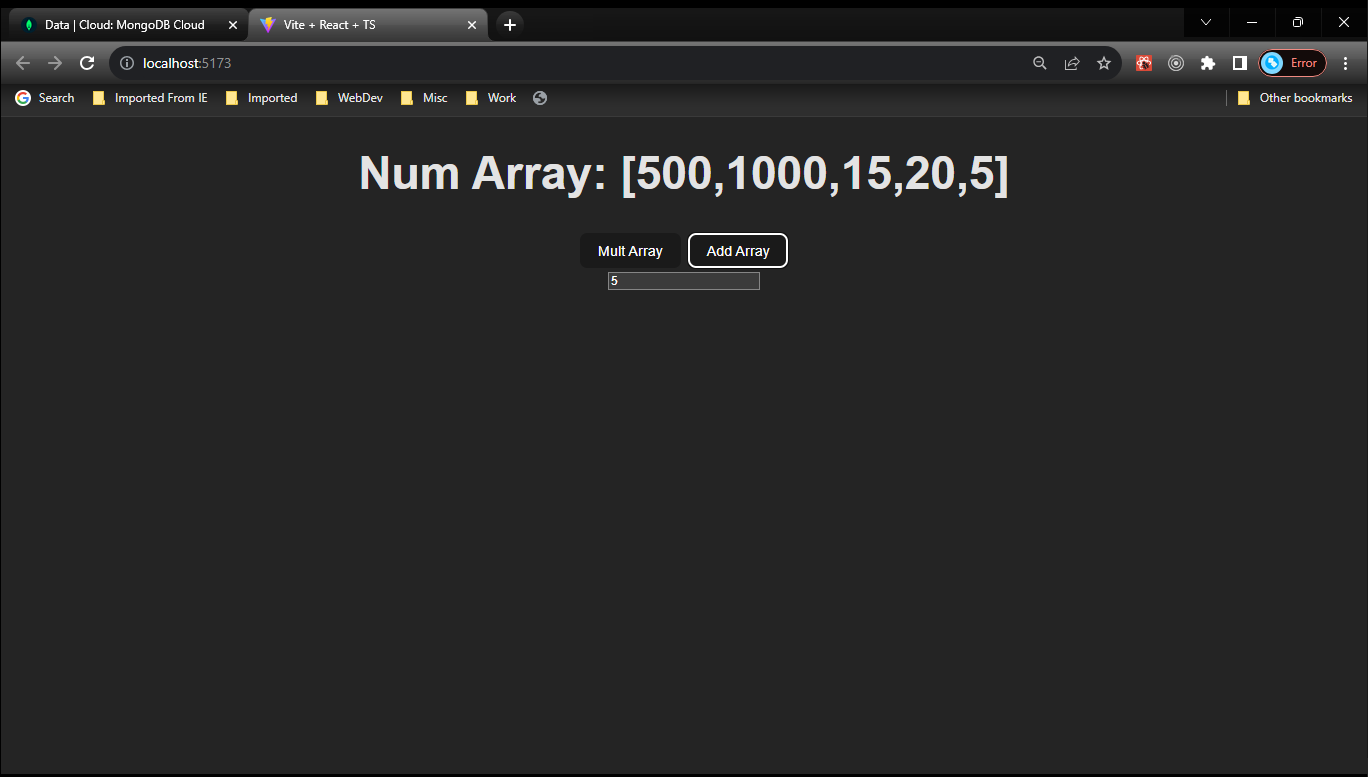
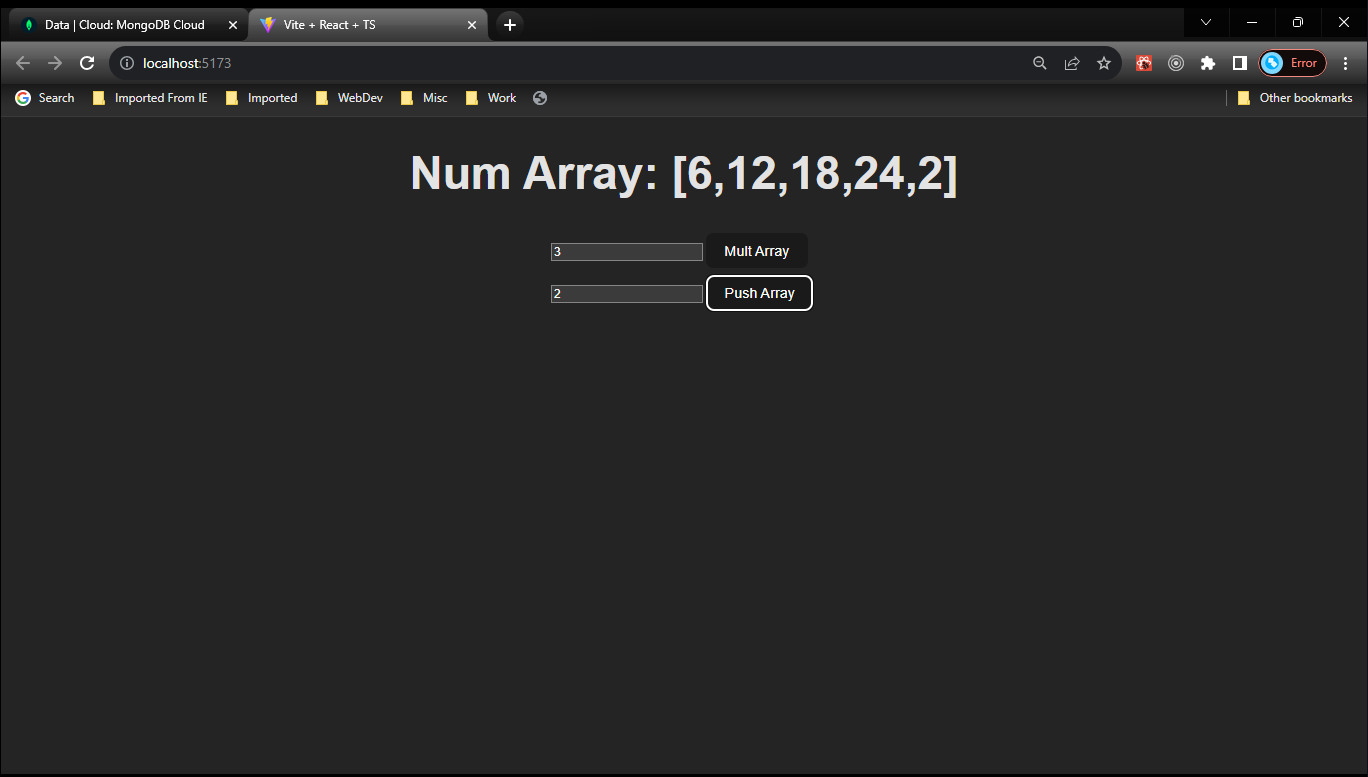
Separate into two components including CounterArray

Changed region(s): [[0.2456, 0.1853, 0.5219, 0.2471], [0.5526, 0.1853, 0.7368, 0.278], [0.3991, 0.3089, 0.5833, 0.4015]]

diff --git a/src/Counter.tsx b/src/Counter.tsx
@@ -1,14 +1,12 @@
 import { ReactNode, useReducer, useState, ChangeEvent } from 'react'
 
-const initState = { numArray: [1, 2], text: '' }
+const initState = { count: 0, text: '' }
 
 const enum REDUCER_ACTION_TYPE {
-    // INCREMENT,
-    // DECREMENT,
-    // RESET,
-    // ADD_INC,
-    PUSH_ARRAY,
-    MULT_ARRAY,
+    INCREMENT,
+    DECREMENT,
+    RESET,
+    ADD_INC,
 //    NEW_INPUT,
 }
 
@@ -19,31 +17,14 @@ type ReducerAction = {
 
 const reducer = (state: typeof initState, action: ReducerAction): typeof initState => {
     switch (action.type) {
-        // case REDUCER_ACTION_TYPE.INCREMENT:
-        //     return { ...state, count: state.count + action.payload }
-        // case REDUCER_ACTION_TYPE.DECREMENT:
-        //     return { ...state, count: state.count - action.payload }
-        // case REDUCER_ACTION_TYPE.RESET:
-        //     return { ...state, count: action.payload }       
-        // case REDUCER_ACTION_TYPE.ADD_INC:
-        //     return { ...state, count: state.count + action.payload } 
-
-        case REDUCER_ACTION_TYPE.MULT_ARRAY:
-            let numArrTemp = [...state.numArray];
-            numArrTemp.forEach((item, index, arr) => {
-              arr[index] = item * action.payload;
-            });
-            return {
-              ...state,
-              numArray: numArrTemp
-            };
-
-        case REDUCER_ACTION_TYPE.PUSH_ARRAY:
-            return {
-                ...state,
-                numArray: [...state.numArray, state.numArray.length + 1]
-            };
-
+        case REDUCER_ACTION_TYPE.INCREMENT:
+            return { ...state, count: state.count + action.payload }
+        case REDUCER_ACTION_TYPE.DECREMENT:
+            return { ...state, count: state.count - action.payload }
+        case REDUCER_ACTION_TYPE.RESET:
+            return { ...state, count: action.payload }       
+        case REDUCER_ACTION_TYPE.ADD_INC:
+            return { ...state, count: state.count + action.payload } 
         // case REDUCER_ACTION_TYPE.NEW_INPUT:
         //     return { ...state, text: action.payload ?? '' }
         default:
@@ -52,54 +33,43 @@ const reducer = (state: typeof initState, action: ReducerAction): typeof initSta
 }
 
 type ChildrenType = {
-    children: (numArray: number[]) => ReactNode
+    children: (num: number) => ReactNode
 }
 
 const Counter = ({ children }: ChildrenType) => {
     const [state, dispatch] = useReducer(reducer, initState)
     const [incAmount, setIncAmount] = useState("2");
-    const [arrMultAmt, setArrMultAmt] = useState(2);
 
-    // const increment = () => dispatch({ type: REDUCER_ACTION_TYPE.INCREMENT, payload: 1})
-    // const decrement = () => dispatch({ type: REDUCER_ACTION_TYPE.DECREMENT, payload: 1 })
-    // const reset = () => dispatch({ type: REDUCER_ACTION_TYPE.RESET, payload: 0 })
-    // const add_inc = () => dispatch({ 
-    //     type: REDUCER_ACTION_TYPE.ADD_INC,
-    //     payload: Number(incAmount) 
-    // })
-    const mult_array = () => dispatch({ 
-        type: REDUCER_ACTION_TYPE.MULT_ARRAY,
-        payload: Number(arrMultAmt) 
-    });
-
-    const push_array = () => dispatch({
-        type: REDUCER_ACTION_TYPE.PUSH_ARRAY,
-        payload: 1
-    });
-
+    const increment = () => dispatch({ type: REDUCER_ACTION_TYPE.INCREMENT, payload: 1})
+    const decrement = () => dispatch({ type: REDUCER_ACTION_TYPE.DECREMENT, payload: 1 })
+    const reset = () => dispatch({ type: REDUCER_ACTION_TYPE.RESET, payload: 0 })
+    const add_inc = () => dispatch({ 
+        type: REDUCER_ACTION_TYPE.ADD_INC,
+        payload: Number(incAmount) 
+    })
     const handleTextInput = (e: ChangeEvent<HTMLInputElement>) => {
-        setArrMultAmt(Number(e.target.value));
+        setIncAmount(e.target.value);
     }
 
     return (
         <>
-            <h1>{children(state.numArray)}</h1>
+            <h1>{children(state.count)}</h1>
             <div>
-                {/* <button onClick={increment}>+</button>
+                <button onClick={increment}>+</button>
                 <button onClick={decrement}>-</button>
                 <button onClick={reset}>Reset</button>
-                <button onClick={add_inc}>Add Inc.</button> */}
-                <button onClick={ mult_array }>Mult Array</button>
-                <button onClick={ push_array }>Add Array</button>
             </div>
-            <input 
-                type="text"
-                value={arrMultAmt}
-                onChange={handleTextInput} 
-            />
+            <div>
+                <input 
+                    type="text"
+                    value={incAmount}
+                    onChange={handleTextInput} 
+                />
+                <button onClick={add_inc}>Add Inc.</button>
+            </div>
+            
            {/* <h2>{state.text}</h2> */}
         </>
     )
 }
-
 export default Counter

diff --git a/src/CounterArray.tsx b/src/CounterArray.tsx
@@ -1,0 +1,89 @@
+import { ReactNode, useReducer, useState, ChangeEvent } from 'react'
+
+const initState = {
+    numArray: [1, 2]
+}
+
+const enum REDUCER_ACTION_TYPE {
+    PUSH_ARRAY,
+    MULT_ARRAY,
+}
+
+type ReducerAction = {
+    type: REDUCER_ACTION_TYPE,
+    payload: number,
+}
+
+const reducer = (state: typeof initState, action: ReducerAction): typeof initState => {
+    switch (action.type) {
+        case REDUCER_ACTION_TYPE.MULT_ARRAY:
+            let numArrTemp = [...state.numArray];
+            numArrTemp.forEach((item, index, arr) => {
+              arr[index] = item * action.payload;
+            });
+            return {
+              ...state,
+              numArray: numArrTemp
+            };
+
+        case REDUCER_ACTION_TYPE.PUSH_ARRAY:
+            return {
+                ...state,
+                numArray: [...state.numArray, action.payload]
+            };
+
+        default:
+            throw new Error()
+    }
+}
+
+type ChildrenType = {
+    children: (numArray: number[]) => ReactNode
+}
+
+const CounterArray = ({ children }: ChildrenType) => {
+    const [state, dispatch] = useReducer(reducer, initState)
+    const [arrMultAmt, setArrMultAmt] = useState(2);
+    const [arrPushNum, setArrPushNum] = useState(2);
+
+    const mult_array = () => dispatch({ 
+        type: REDUCER_ACTION_TYPE.MULT_ARRAY,
+        payload: Number(arrMultAmt) 
+    });
+
+    const push_array = () => dispatch({
+        type: REDUCER_ACTION_TYPE.PUSH_ARRAY,
+        payload: Number(arrPushNum)
+    });
+
+    const handleTextInput = (e: ChangeEvent<HTMLInputElement>) => {
+        setArrMultAmt(Number(e.target.value));
+    }
+
+    const handlePushInput = (e: ChangeEvent<HTMLInputElement>) => {
+        setArrPushNum(Number(e.target.value));
+    }
+
+    return (
+        <>
+            <h1>{children(state.numArray)}</h1>
+            <div>
+                <input 
+                    type="text"
+                    value={arrMultAmt}
+                    onChange={handleTextInput} 
+                />
+                <button onClick={ mult_array }>Mult Array</button>
+                <br/>
+                <input 
+                    type="text"
+                    value={arrPushNum}
+                    onChange={handlePushInput} 
+                />
+                <button onClick={ push_array }>Push Array</button>
+            </div>
+        </>
+    )
+}
+
+export default CounterArray;

diff --git a/src/App.tsx b/src/App.tsx
@@ -1,11 +1,12 @@
-import Counter from "./Counter"
+import Counter from "./Counter";
+import CounterArray from "./CounterArray";
 
 function App() {
 
   return (
     <>
-      {/* <Counter>{(num: number) => <>Current Count: {num}</>}</Counter> */}
-      <Counter>{(numArray: number[]) => <>Num Array: {JSON.stringify(numArray)}</>}</Counter>
+      <Counter>{(num: number) => <>Current Count: {num}</>}</Counter>
+      <CounterArray>{(numArray: number[]) => <>Num Array: {JSON.stringify(numArray)}</>}</CounterArray>
     </>
   )
 }
